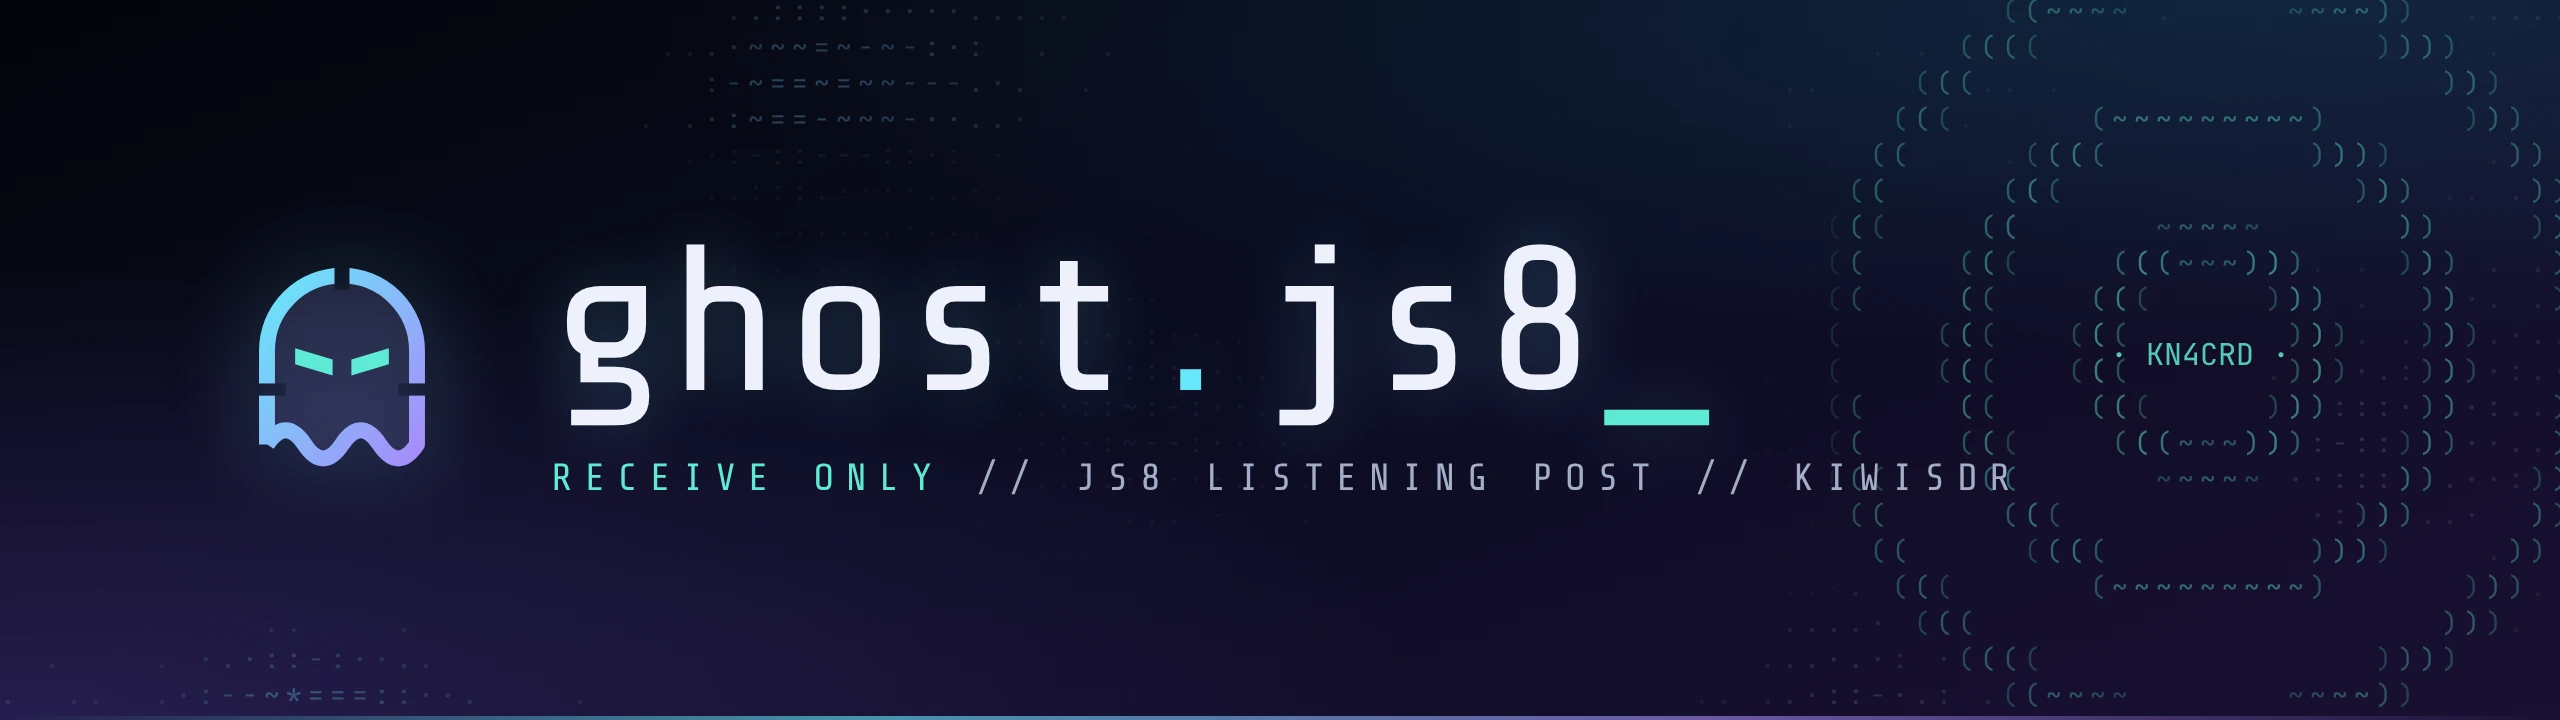
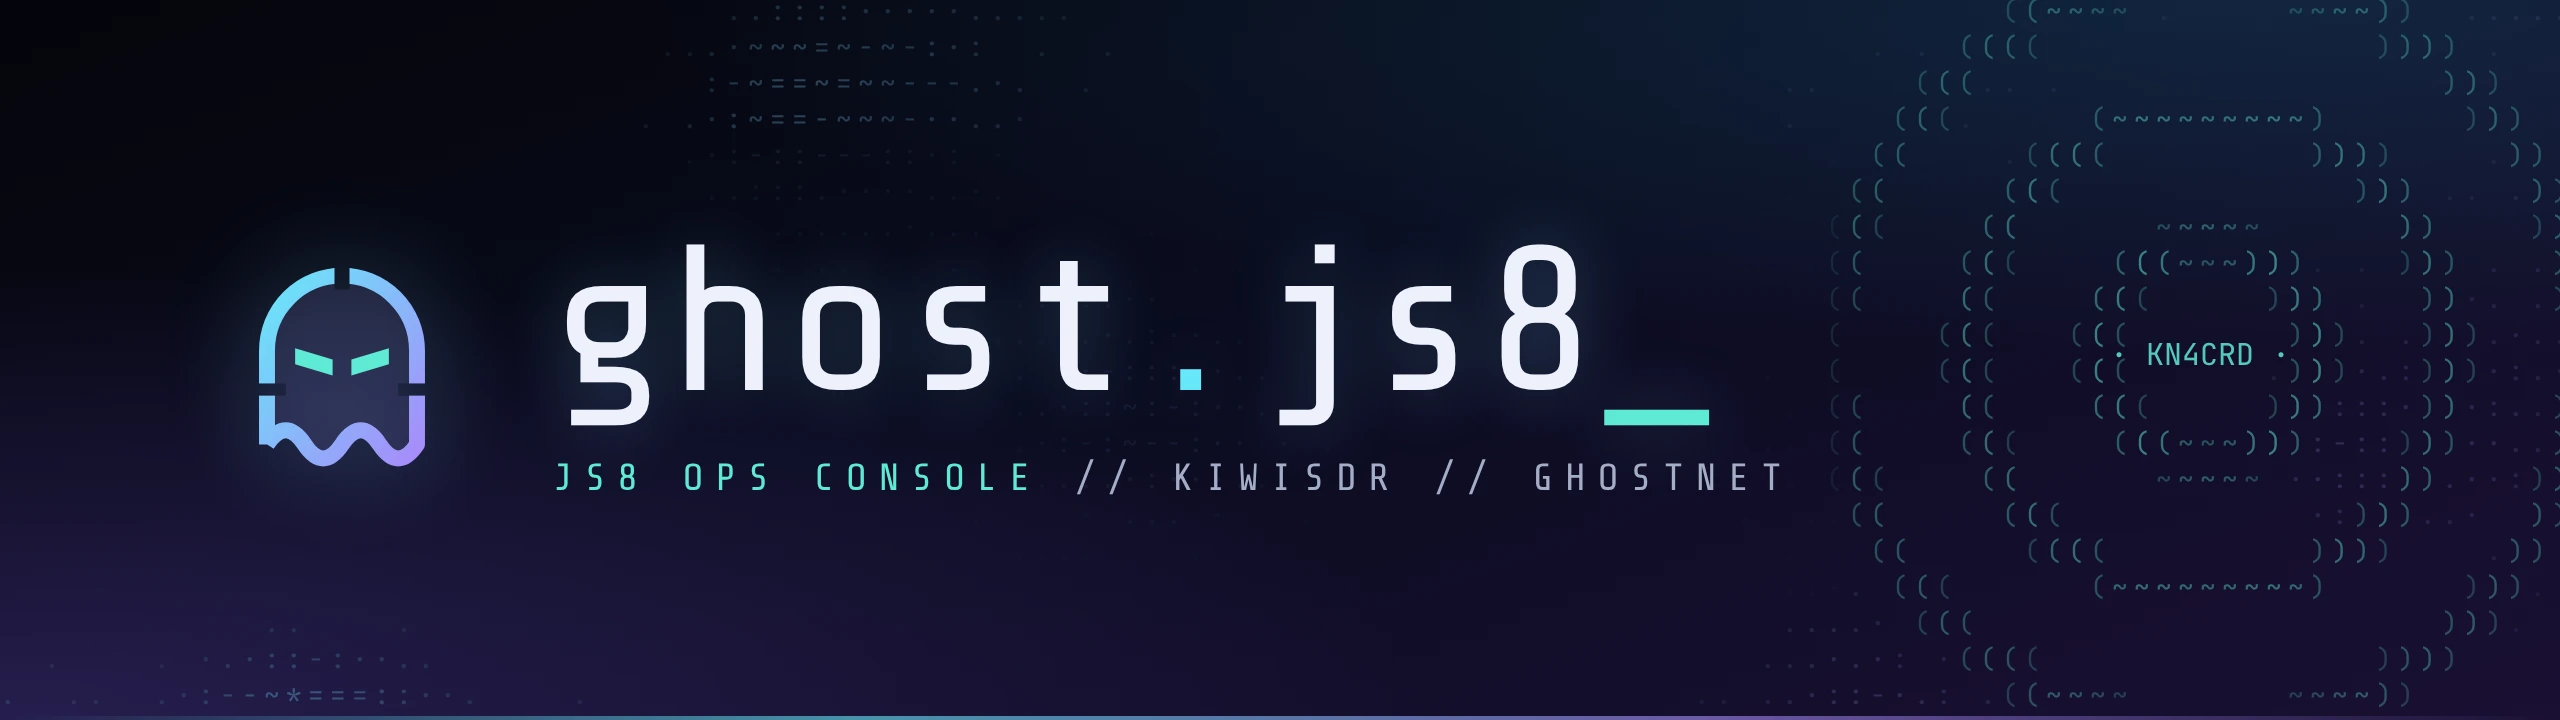
feat(web): mode-neutral branding ("JS8 ops console") with an RX mode chip
- Tagline "JS8 ops console" in the top bar, banner, README and meta; the
  footer and hero labels drop "receive-only"/"listening post"
- The "Receive only" badge becomes an RX mode chip: capability, not brand,
  tied to the contract's hello.receive_only; a future transmit extension
  changes the chip, not the name
- README: RX mode badge and an "RX today, built to grow" note; the
  receive-only invariant and its test are unchanged
- Refreshed banner and dashboard screenshot

Claude-Session: https://claude.ai/code/session_01GQHMvquKtGGkMTjMwxGrZ5

Changed region(s): [[0.2188, 0.6417, 0.7812, 0.7028]]

diff --git a/web/src/features/status/TopBar.svelte b/web/src/features/status/TopBar.svelte
@@ -20,7 +20,7 @@
 <div class="topbar" role="banner">
   <div class="inner">
     <a class="brand" href="#/" aria-label="ghost.js8 home"><Logo size={38} /></a>
-    <span class="tagline">JS8 listening post</span>
+    <span class="tagline">JS8 ops console</span>
     <span class="spacer"></span>
     <button
       type="button"
@@ -38,17 +38,17 @@
       >
       <span class="sr-only">Animated backdrop</span>
     </button>
-    <span class="rx-only" title="ghost.js8 cannot transmit">
-      <svg width="12" height="12" viewBox="0 0 24 24" aria-hidden="true"
-        ><path
-          d="M12 3 4 6v6c0 4.4 3.4 8.3 8 9 4.6-.7 8-4.6 8-9V6z"
-          fill="none"
-          stroke="currentColor"
-          stroke-width="2.2"
-          stroke-linejoin="round"
-        /></svg
-      >
-      Receive only
+    <!--
+      Capability, not brand. The contract's hello has receive_only: true for every
+      build today; a future transmit extension changes the contract and this chip.
+    -->
+    <span
+      class="mode"
+      data-testid="mode-chip"
+      title="Receive mode: this build has no transmit path"
+    >
+      <span class="sr-only">Mode:</span>
+      <span class="led" aria-hidden="true"></span>RX
     </span>
     <span class="link {link}" data-testid="link-state">
       <span class="dot" aria-hidden="true"></span>
@@ -118,17 +118,25 @@
   .fx:hover {
     border-color: var(--g-border-strong);
   }
-  .rx-only {
+  .mode {
     display: inline-flex;
     align-items: center;
     gap: 6px;
-    padding: 4px 10px;
+    padding: 3px 10px;
     border-radius: var(--g-radius-pill);
+    border: 1px solid rgb(94 234 212 / 0.3);
     background: var(--g-signal-soft);
     color: var(--g-signal);
-    font-size: var(--g-text-xs);
-    font-weight: 600;
-    letter-spacing: 0.04em;
+    font-family: var(--g-font-display);
+    font-size: var(--g-text-s);
+    letter-spacing: 0.14em;
+  }
+  .led {
+    width: 6px;
+    height: 6px;
+    border-radius: 1px;
+    background: currentColor;
+    box-shadow: 0 0 8px currentColor;
   }
   .link {
     display: inline-flex;
@@ -176,7 +184,7 @@
     }
   }
   @media (max-width: 720px) {
-    .rx-only,
+    .mode,
     .link .label {
       display: none;
     }

diff --git a/web/index.html b/web/index.html
@@ -4,7 +4,10 @@
     <meta charset="UTF-8" />
     <meta name="viewport" content="width=device-width, initial-scale=1.0" />
     <meta name="color-scheme" content="dark" />
-    <meta name="description" content="ghost.js8: receive-only JS8 listening post via KiwiSDR" />
+    <meta
+      name="description"
+      content="ghost.js8: JS8 ops console for KiwiSDR receivers and GhostNet"
+    />
     <meta name="theme-color" content="#05060a" />
     <link rel="icon" type="image/svg+xml" href="/favicon.svg" />
     <title>ghost.js8</title>

diff --git a/web/tests/e2e/smoke.spec.ts b/web/tests/e2e/smoke.spec.ts
@@ -5,6 +5,7 @@ test.describe('ghost.js8 smoke', () => {
   test('establishes the link and shows live traffic', async ({ page, isMobile }) => {
     await page.goto('/');
     await expect(page.getByTestId('link-state')).toContainText('LINK ESTABLISHED');
+    await expect(page.getByTestId('mode-chip')).toHaveText(/\bRX\b/);
     await expect(page.getByTestId('decode-row').first()).toBeVisible({ timeout: 20_000 });
     await expect(page.getByTestId('situation')).toHaveAttribute(
       'data-code',

diff --git a/web/src/features/status/SituationBar.svelte b/web/src/features/status/SituationBar.svelte
@@ -21,7 +21,7 @@
   const lastDecode = $derived(app.state.health?.last_decode_utc ?? null);
 </script>
 
-<section class="hero {s.tone}" aria-label="Listening post overview">
+<section class="hero {s.tone}" aria-label="Station overview">
   <div class="tuned">
     <span class="label">Listening on</span>
     <div class="freq-row">

diff --git a/web/src/app/App.svelte b/web/src/app/App.svelte
@@ -122,7 +122,7 @@
   {/if}
 
   <footer class="foot mono">
-    ghost.js8 · receive-only · decodes by native JS8Call · build {app.state.hello?.build ?? '—'}
+    ghost.js8 · JS8 ops console · decodes by native JS8Call · build {app.state.hello?.build ?? '—'}
   </footer>
 </div>
 

diff --git a/README.md b/README.md
@@ -1,15 +1,15 @@
 <p align="center">
-  <img src="docs/assets/banner.webp" alt="ghost.js8 — receive only, JS8 listening post" width="100%">
+  <img src="docs/assets/banner.webp" alt="ghost.js8 — JS8 ops console for KiwiSDR and GhostNet" width="100%">
 </p>
 
 <p align="center">
-  <b>Passive JS8 listening through public KiwiSDR receivers.</b><br>
-  The native JS8Call decoder, headless in Docker, behind a browser listening post. It never transmits.
+  <b>A JS8 ops console in the browser.</b><br>
+  The native JS8Call decoder, headless in Docker, wired to public KiwiSDR receivers and GhostNet.
 </p>
 
 <p align="center">
   <a href="https://github.com/d3mocide/ghost.js8/actions/workflows/ci.yml"><img alt="CI" src="https://github.com/d3mocide/ghost.js8/actions/workflows/ci.yml/badge.svg"></a>
-  <img alt="Receive only" src="https://img.shields.io/badge/mode-receive_only-5eead4?labelColor=0a0c1f">
+  <img alt="Mode RX" src="https://img.shields.io/badge/mode-RX-5eead4?labelColor=0a0c1f">
   <img alt="License GPL-3.0" src="https://img.shields.io/badge/license-GPL--3.0-a78bfa?labelColor=0a0c1f">
 </p>
 
@@ -20,10 +20,11 @@
 ## What it does
 
 - **Real decoding.** KiwiSDR audio goes into native JS8Call. CI proves it end to end with a real recording.
-- **Live listening post.** Waterfall, decoded traffic, heard stations, map and an audio monitor work on desktop and phone.
+- **Live console.** Waterfall, decoded traffic, heard stations, map and an audio monitor work on desktop and phone.
 - **GhostNet autopilot (opt-in).** It follows your region's GhostNet JS8 nets on the nearest KiwiSDR. Each net is recorded (traffic, waterfall, audio) for later review. Live `@GSTFLASH` traffic raises an alert.
 - **Truthful health.** Every component reports timestamped evidence. "Connected" is never mistaken for "decoding".
-- **Polite and passive.** It identifies itself, backs off on reconnect and never touches shared receiver settings. Nothing can transmit.
+- **Polite on shared receivers.** It identifies itself, backs off on reconnect and never touches shared receiver settings.
+- **RX today, built to grow.** Current builds have no transmit path (the UI shows an `RX` mode chip). Transmit is planned as a separate, explicitly enabled extension with proper radio tooling.
 
 ```
 KiwiSDR ─ SND ─▶ bridge ─▶ decoder-agent ─▶ PulseAudio ─▶ JS8Call (native, headless)

diff --git a/AGENTS.md b/AGENTS.md
@@ -67,7 +67,9 @@ Toolchain: Python 3.12 via `uv`, Node 22 LTS. Everything is pinned (see
 
 1. **Receive only.** No transmit button, TX field, or anything that looks like it
    could send. A Playwright test asserts this. A future radio interface must be a
-   separate, explicit extension point.
+   separate, explicit extension point. Branding stays mode-neutral ("JS8 ops
+   console"); current capability is shown by the top bar's `RX` chip, which
+   tracks the contract's `hello.receive_only`.
 2. **Never change shared receiver hardware settings.** No attenuation changes,
    ever. Kiwi AGC is per-channel DSP; we send fixed per-channel defaults only.
    ADC overload is shown and receiver switching is offered — nothing else.

diff --git a/CHANGELOG.md b/CHANGELOG.md
@@ -34,5 +34,8 @@ First MVP.
 - New mark and wordmark: a stencil line-art ghost with a radio-wave hem and
   slit eyes, and `ghost.js8_` set in Share Tech Mono with a blinking cursor.
   Panel titles and the frequency readout use the same terminal face.
+- Mode-neutral branding: tagline "JS8 ops console". The "Receive only"
+  badge became an `RX` mode chip that shows capability, not brand. A future
+  transmit extension changes the chip, not the name.
 - Net log viewer (`#/net/<id>`) with click-to-seek audio, and a live
   @GSTFLASH alert banner. Timeline tags for FLASH/GN/DIR traffic.

diff --git a/docs/architecture.md b/docs/architecture.md
@@ -1,7 +1,8 @@
 # Architecture
 
-ghost.js8 is a receive-only JS8Call listening post. It pulls audio and waterfall
-data from public KiwiSDR web receivers, decodes JS8 with the **native JS8Call
+ghost.js8 is a JS8 ops console. Current builds are receive-only (see the TX
+extension point in `operations.md`). It pulls audio and waterfall data from
+public KiwiSDR web receivers, decodes JS8 with the **native JS8Call
 application** running headless in Docker, and presents traffic in a browser.
 
 ## Components
